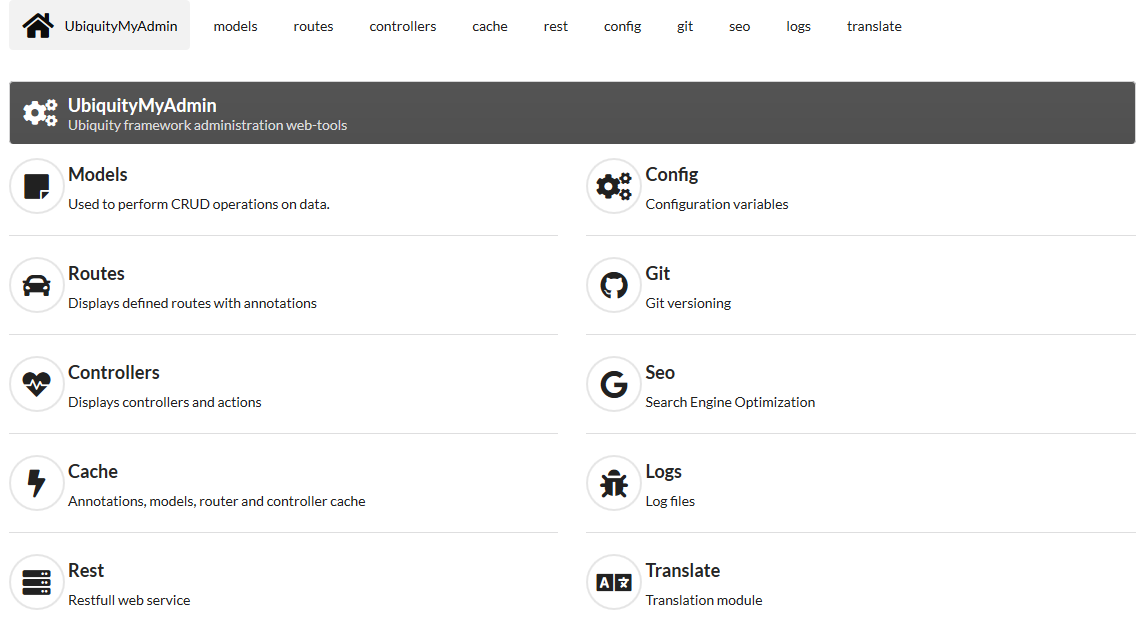
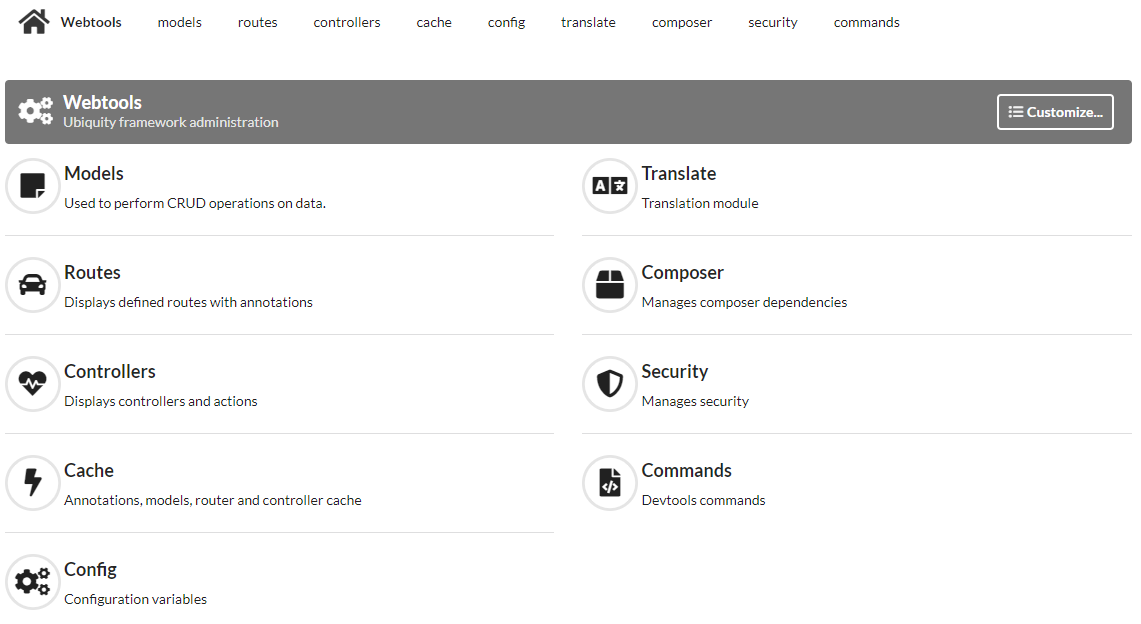
[skip ci] [doc] update quickstart with webtools

diff --git a/docs/quickstart/quickstart-html.rst b/docs/quickstart/quickstart-html.rst
@@ -34,7 +34,7 @@ Example :
    
 Project creation
 ----------------
-Create the **quick-start** projet with **UbiquityMyAdmin** interface (the **-a** option)
+Create the **quick-start** projet with **Webtools** interface (the **-a** option)
 
 .. code-block:: bash
    
@@ -78,11 +78,16 @@ Check the correct operation at the address **http://127.0.0.1:8090**:
 Controller
 ----------
 
-Goto admin interface by clicking on the button **UbiquityMyAdmin**:
+Goto admin interface by clicking on the button **Webtools**:
 
 .. image:: /_static/images/quick-start-2/ubi-my-admin-btn.png
 
-The web application **UbiquityMyAdmin** saves time in repetitive operations.
+Select the tools you need.
+
+.. image:: /_static/images/quick-start-2/ubi-my-admin-btn-0.png
+   :class: bordered
+
+The web application **Webtools** saves time in repetitive operations.
 
 .. image:: /_static/images/quick-start-2/ubi-my-admin-interface.png
    :class: bordered
